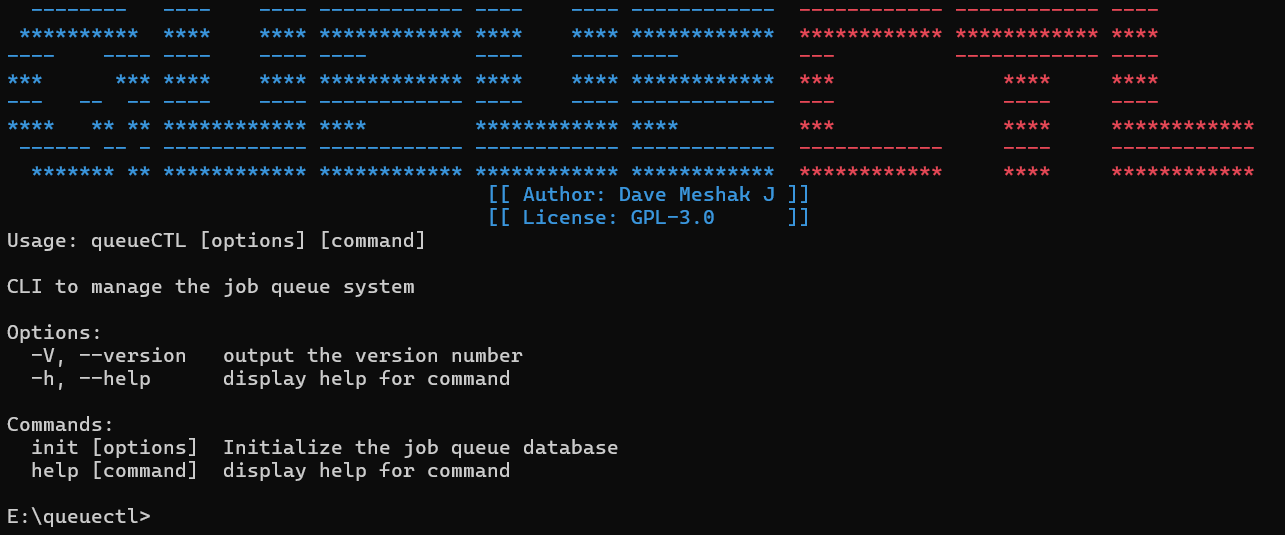
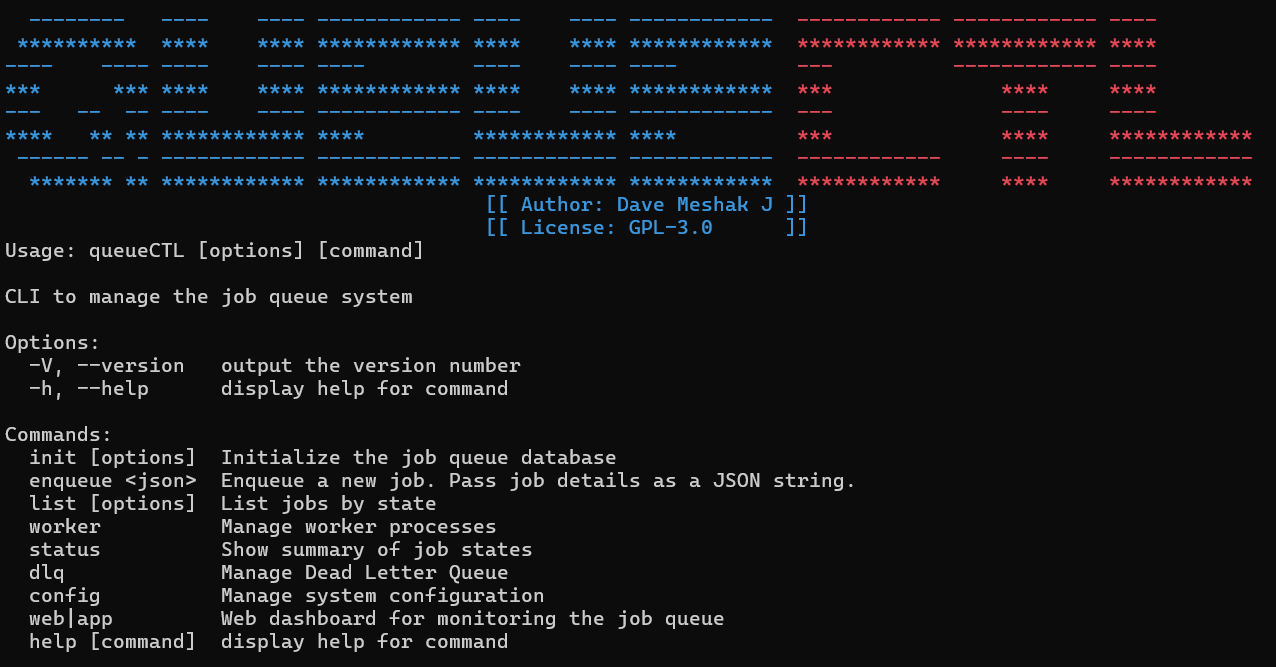
docs(Readme): add dashboard images and design

diff --git a/README.md b/README.md
@@ -14,6 +14,7 @@
 - [Quick demo (end-to-end)](#quick-demo-end-to-end)
 - [Usage examples (CLI)](#usage-examples-cli)
 - [Architecture overview](#architecture-overview)
+- [Design document](#design-document)
 - [Assumptions & trade-offs](#assumptions--trade-offs)
 - [Testing instructions](#testing-instructions)
 
@@ -52,33 +53,18 @@ Notes for Windows
 
 ---
 
-## Quick demo (end-to-end)
-Copy/paste these commands from the project root to see a minimal end-to-end run (DB init → start worker → enqueue job → check status):
+## Web dashboard for monitoring
+
+QueueCTL also features a powerful dashboard for monitoring the job-queue more visually.
 
 ```bash
-# 1) initialize DB
-queuectl init
-
-# 2) start 1 worker in background
-queuectl worker start --count 1
-
-# 3) enqueue a tiny job
-queuectl enqueue '{"id":"demo-1","command":"node -e \"console.log(\\'hello demo\\')\""}'
-
-# 4) check status
-queuectl status
-
-# 5) optional: open dashboard (foreground)
-node ./web/server
-#or via CLI: 
+# use node
+node ./web/server.js
+# or via CLI(npm link must have been performed):
 queuectl web start
 ```
 
-Expected results
-- `init` prints success
-- `worker start` prints the background PID message
-- `enqueue` confirms job insertion
-- `status` reports active workers and job counts (pending/completed)
+![](./assets/web.png)
 
 ---
 
@@ -101,13 +87,40 @@ Examples
 
 ```bash
 queuectl init
-# => [+] Database initialization complete.
+# op: 
+[+] Database initialization complete.
 
+# push a job for execution
 queuectl enqueue '{"id":"job-1","command":"node -e \"console.log(\\'work\\')\""}'
-# => [+] Successfully enqueued job 'job-1'.
+# op: 
+[+] Successfully enqueued job 'job-1'.
 
+# starts two workers concurrently
 queuectl worker start --count 2
+
+# checking active workers and job state
 queuectl status
+# op:
+[*] Active Workers: 4
+
+┌───────────┬────────┐
+│ (index)   │ Values │
+├───────────┼────────┤
+│ completed │ 2      │
+│ dead      │ 2      │
+└───────────┴────────┘
+
+# check active worker list
+queuectl worker list
+# op:
+┌─────────┬───────┬───────────────────┬───────────────────────┬───────────────────────┐
+│ (index) │ pid   │ hostname          │ started_at            │ last_heartbeat        │
+├─────────┼───────┼───────────────────┼───────────────────────┼───────────────────────┤
+│ 0       │ 2232  │ 'DESKTOP-UC4RRD9' │ '2025-11-09 09:58:34' │ '2025-11-09 10:02:27' │
+│ 1       │ 16600 │ 'DESKTOP-UC4RRD9' │ '2025-11-09 09:58:34' │ '2025-11-09 10:02:27' │
+│ 2       │ 20116 │ 'DESKTOP-UC4RRD9' │ '2025-11-09 09:58:34' │ '2025-11-09 10:02:27' │
+│ 3       │ 20260 │ 'DESKTOP-UC4RRD9' │ '2025-11-09 09:58:34' │ '2025-11-09 10:02:27' │
+└─────────┴───────┴───────────────────┴───────────────────────┴───────────────────────┘
 ```
 
 ---
@@ -138,6 +151,12 @@ High level components
 | jobs    | id, command, state, attempts, max_attempts, next_run_at, created_at, updated_at, last_error |
 | workers | pid, hostname, last_heartbeat, registered_at                                                 |
 | config  | key, value (defaults include `default_max_tries`, `backoff_base`, etc.)                      |
+
+---
+
+## QueueCTL Architecture
+
+See the full design write-up in [`DESIGN.md`](./DESIGN.md).
 
 ---
 
@@ -181,7 +200,8 @@ queuectl status
 ```
 
 More docs
-- Full testing instructions and troubleshooting are in `TESTING.md` 
+- Full testing instructions and troubleshooting are in `TESTING.md`.
+- Detailed design notes and diagrams are in `DESIGN.md`.
 ---
 
 ## Author
